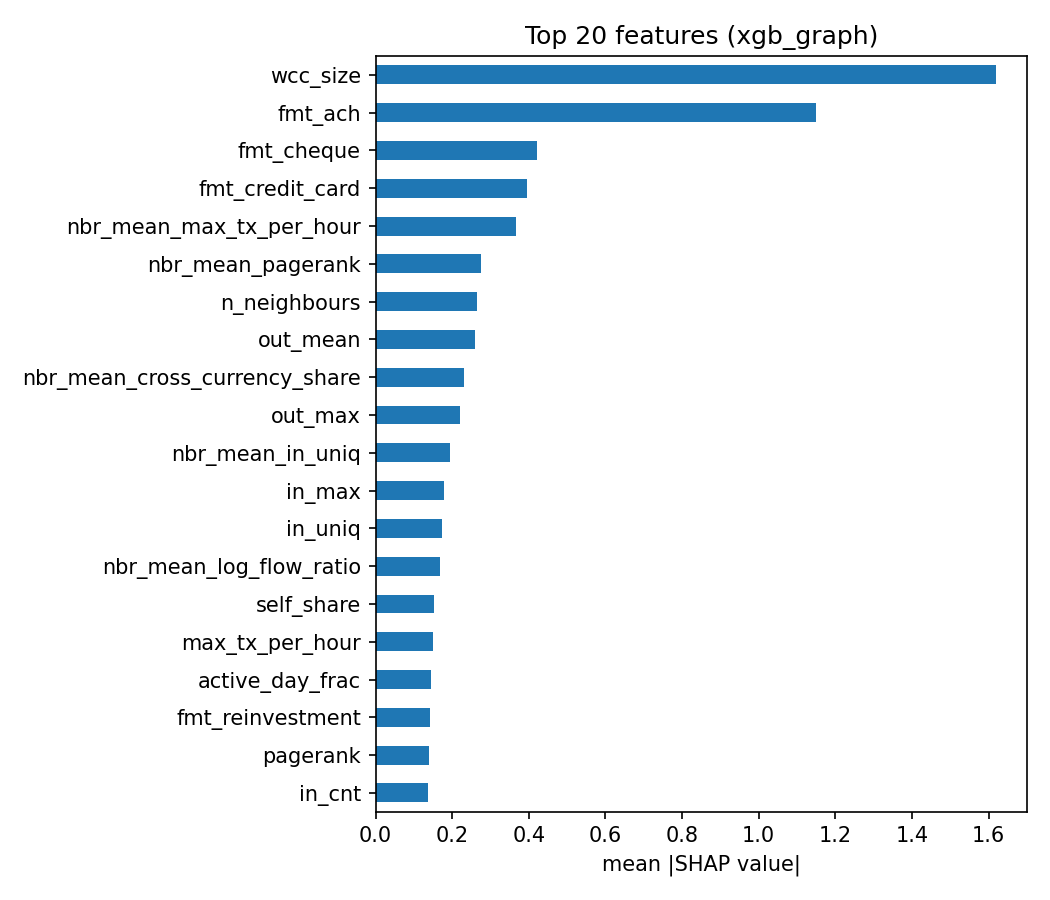
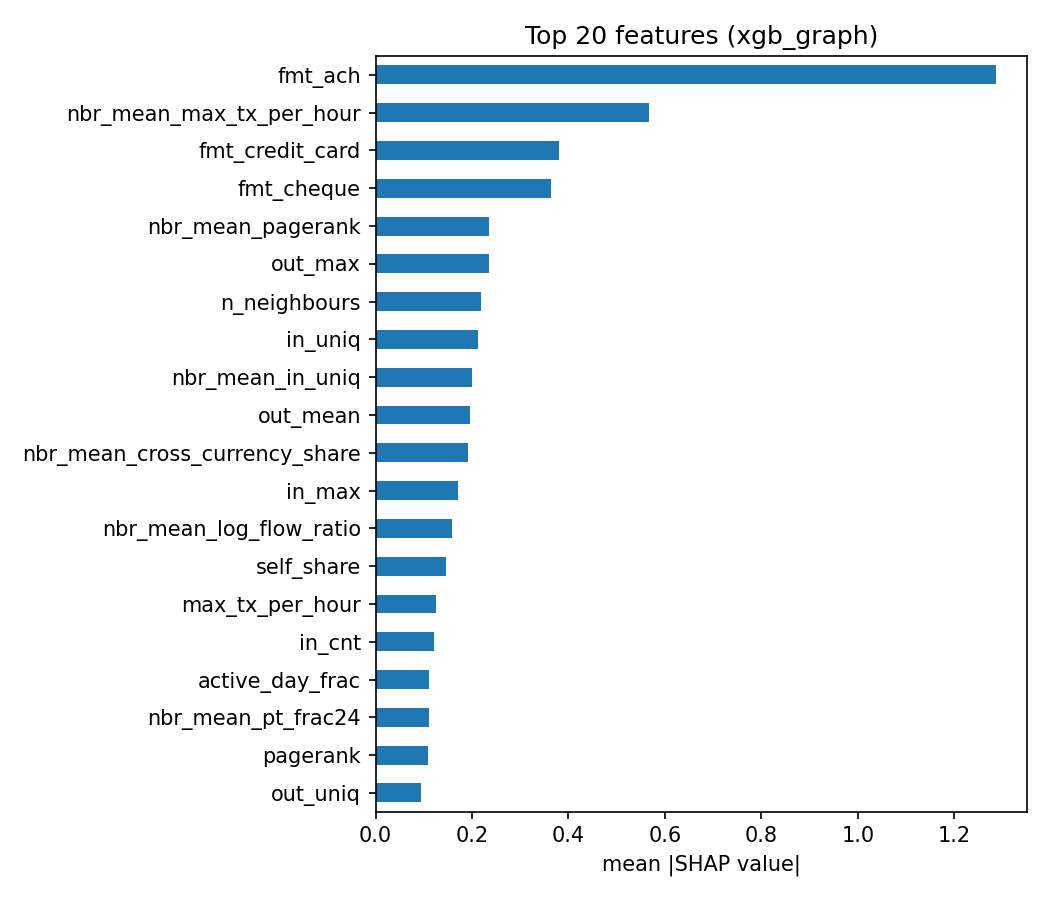
Stage 5 final: xgb_graph test PR-AUC 0.290 vs 0.013 rules; 3.5x recall at equal alerts

diff --git a/src/train.py b/src/train.py
@@ -38,6 +38,9 @@ from config import PROCESSED, MODELS, FIGURES, ROOT
 
 GRAPH = ["pagerank", "wcc_size", "n_neighbours", "log_scc_size", "in_cycle_scc"]
 RULES = ["fan_out", "fan_in", "gather_scatter", "scatter_gather", "cycle", "rule_any"]
+# Excluded from every model. wcc_size: 99% of launderers sit in the giant component
+# (likely a generator artifact); retraining without it showed no loss on val.
+EXCLUDE = ["wcc_size"]
 KS = [100, 500, 1000, 5000]
 
 
@@ -48,11 +51,12 @@ def load(split):
 def groups(cols):
     nbr = [c for c in cols if c.startswith("nbr_")]
     tab = [c for c in cols if c not in GRAPH + RULES + nbr]
-    return {
+    feature_sets = {
         "xgb_tabular": tab,
         "xgb_graph": tab + GRAPH + nbr,
         "xgb_all": tab + GRAPH + nbr + RULES,
     }
+    return {k: [c for c in v if c not in EXCLUDE] for k, v in feature_sets.items()}
 
 
 def fit(Xtr, ytr, Xva, yva):

diff --git a/reports/results.md b/reports/results.md
@@ -6,8 +6,8 @@
       model  pr_auc  roc_auc  recall@100  recall@1000  recall@10711  prec@10711
  rules_only   0.013    0.567       0.014        0.028         0.162       0.021
 xgb_tabular   0.223    0.899       0.070        0.208         0.528       0.069
-  xgb_graph   0.254    0.929       0.068        0.268         0.523       0.068
-    xgb_all   0.242    0.926       0.064        0.256         0.539       0.070
+  xgb_graph   0.290    0.928       0.069        0.291         0.568       0.074
+    xgb_all   0.267    0.922       0.069        0.283         0.550       0.072
 ```
 
 Production model (chosen on validation PR-AUC): **xgb_graph**
@@ -16,15 +16,15 @@ Production model (chosen on validation PR-AUC): **xgb_graph**
 
 ```
        pattern  accounts  rules_only  xgb_all  xgb_graph  xgb_tabular
-         OTHER       635        0.17     0.25       0.24         0.36
-GATHER-SCATTER       154        0.14     0.84       0.84         0.79
-         STACK       151        0.18     0.72       0.71         0.68
-SCATTER-GATHER       130        0.20     0.82       0.81         0.63
-     BIPARTITE        84        0.27     0.69       0.70         0.60
-       FAN-OUT        81        0.21     0.84       0.83         0.65
-         CYCLE        78        0.23     0.78       0.72         0.65
-        FAN-IN        75        0.21     0.69       0.71         0.76
-        RANDOM        59        0.14     0.85       0.85         0.73
+         OTHER       635        0.17     0.25       0.29         0.36
+GATHER-SCATTER       154        0.14     0.87       0.88         0.79
+         STACK       151        0.18     0.77       0.76         0.68
+SCATTER-GATHER       130        0.20     0.78       0.81         0.63
+     BIPARTITE        84        0.27     0.71       0.73         0.60
+       FAN-OUT        81        0.21     0.85       0.84         0.65
+         CYCLE        78        0.23     0.77       0.81         0.65
+        FAN-IN        75        0.21     0.80       0.77         0.76
+        RANDOM        59        0.14     0.88       0.85         0.73
 ```
 
 ![PR curve](figures/pr_curve.png)
